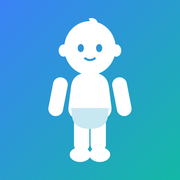
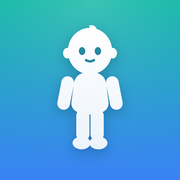
Rifa l icona in stile Apple
Sfumatura verticale col tono chiaro in alto, luce morbida dall alto, ombra
diffusa sotto il soggetto. Il bambino scende al 69% del lato, cosi il taglio
a squircle di iOS non lo sfiora.
Sagoma semplificata: via il bavaglio, braccia accostate al corpo, occhi e
bocca piu grandi. A 60 px la vecchia dava braccia sospese e una macchia
grigia al posto del bavaglio.

diff --git a/v3/strumenti/genera-icona.py b/v3/strumenti/genera-icona.py
@@ -5,7 +5,8 @@ Lancia:  python -I v3/strumenti/genera-icona.py
 Scrive:  v3/icona-512.png, v3/icona-180.png, v3/icona.svg
 
 La sagoma e quella della funzione baby() del mockup .claude/mockup/v3b.html,
-viewBox 0 0 120 240. Qui le stesse forme si ridisegnano con Pillow.
+viewBox 0 0 120 240, con le braccia accostate al corpo e senza bavaglio:
+a 60 px il bavaglio spariva e le braccia staccate spezzavano la sagoma.
 I PNG non hanno canale alfa: iOS mette il nero dove c'e trasparenza.
 La sagoma sta dentro un quadrato piu piccolo dell'icona, cosi resta un
 margine su tutti i lati: iOS taglia gli angoli.
@@ -13,7 +14,7 @@ margine su tutti i lati: iOS taglia gli angoli.
 
 from pathlib import Path
 
-from PIL import Image, ImageChops, ImageDraw
+from PIL import Image, ImageChops, ImageDraw, ImageFilter
 
 V3 = Path(__file__).resolve().parent.parent
 
@@ -21,24 +22,31 @@ BLU = (0x3B, 0x82, 0xF6)    # #3B82F6, il colore di Gabriel
 VERDE = (0x14, 0xB8, 0xA6)  # #14B8A6, il colore di Vittorio
 
 LATO = 2048    # si disegna grande, poi si riduce con LANCZOS
-QUOTA = 0.80   # quota del lato occupata dalla sagoma; il resto e margine
+QUOTA = 0.69   # quota del lato occupata dalla sagoma; il resto e aria
+SU = 0.015     # la sagoma sale di poco: l'ombra sta sotto e pesa
 U = 14         # pixel per unita del viewBox, con supercampionamento
 BORDO = 24     # unita di margine nella tela di lavoro: le braccia ruotate escono dal viewBox
-BAVAGLIO = 190  # il bavaglio e bianco meno coperto, cosi si distingue dal corpo
+
+LUCE = 0.16                  # quanto schiarisce la luce dall'alto, al massimo
+FINE_SOGGETTO = (236, 243, 250)  # il bianco del soggetto in fondo: volume appena accennato
+OMBRA = (8, 44, 78)          # blu scurissimo: un'ombra nera sarebbe dura
+OMBRA_GIU = 0.022            # di quanto scende l'ombra, in quote del lato
+OMBRA_SFOCO = 0.034          # raggio della sfocatura, in quote del lato
+OMBRA_FORZA = 0.30           # opacita dell'ombra
 
 # ── le forme, nelle unita del viewBox 120x240 ──────────────────────────────
 # ellissi: (cx, cy, rx, ry)
 TESTA = (60, 52, 42, 44)
 ORECCHIE = [(17, 56, 8, 10), (103, 56, 8, 10)]
 PIEDI = [(44, 226, 17, 12), (76, 226, 17, 12)]
-OCCHI = [(45, 52, 5, 6.5), (75, 52, 5, 6.5)]
+OCCHI = [(45, 52, 6, 7.5), (75, 52, 6, 7.5)]
 
 # rettangoli arrotondati: (x, y, larghezza, altezza, raggio)
 GAMBE = [(34, 162, 25, 60, 12.5), (61, 162, 25, 60, 12.5)]
 # braccia: come sopra, piu l'angolo in senso orario e il centro di rotazione
 BRACCIA = [
-    (2, 100, 24, 64, 12, 11, (14, 100)),
-    (94, 100, 24, 64, 12, -11, (106, 100)),
+    (8, 100, 24, 64, 12, 11, (20, 100)),
+    (88, 100, 24, 64, 12, -11, (100, 100)),
 ]
 
 # tracciati: punto di partenza, poi i segmenti.
@@ -56,14 +64,8 @@ CORPO = ((60, 92), [
     ('l', (91, 116)),
     ('c', (89, 101), (81, 92), (60, 92)),
 ])
-BAVA = ((29, 150), [
-    ('l', (91, 150)),
-    ('l', (89, 164)),
-    ('c', (88, 176), (78, 184), (60, 184)),
-    ('c', (42, 184), (32, 176), (31, 164)),
-])
 BOCCA = ((51, 68), (60, 75), (69, 68))  # quadratica
-BOCCA_SPESSORE = 3.4
+BOCCA_SPESSORE = 4.6
 
 # Le stesse forme in SVG, per il favicon. Vengono dal mockup senza cambiamenti:
 # se cambi i numeri qui sopra, cambiali anche qui.
@@ -72,15 +74,14 @@ SAGOMA_SVG = """\
 <ellipse cx="17" cy="56" rx="8" ry="10"/><ellipse cx="103" cy="56" rx="8" ry="10"/>
 <ellipse cx="60" cy="52" rx="42" ry="44"/>
 <path d="M60 92c-21 0-29 9-31 24l-4 32c-2 15 11 24 35 24s37-9 35-24l-4-32c-2-15-10-24-31-24z"/>
-<rect x="2" y="100" width="24" height="64" rx="12" transform="rotate(11 14 100)"/>
-<rect x="94" y="100" width="24" height="64" rx="12" transform="rotate(-11 106 100)"/>
+<rect x="8" y="100" width="24" height="64" rx="12" transform="rotate(11 20 100)"/>
+<rect x="88" y="100" width="24" height="64" rx="12" transform="rotate(-11 100 100)"/>
 <rect x="34" y="162" width="25" height="60" rx="12.5"/>
 <rect x="61" y="162" width="25" height="60" rx="12.5"/>
 <ellipse cx="44" cy="226" rx="17" ry="12"/><ellipse cx="76" cy="226" rx="17" ry="12"/>
-<path d="M29 150h62l-2 14c-1 12-11 20-29 20s-28-8-29-20z" fill="#BEBEBE"/>
-<ellipse cx="45" cy="52" rx="5" ry="6.5" fill="#000"/>
-<ellipse cx="75" cy="52" rx="5" ry="6.5" fill="#000"/>
-<path d="M51 68q9 7 18 0" fill="none" stroke="#000" stroke-width="3.4" stroke-linecap="round"/>\
+<ellipse cx="45" cy="52" rx="6" ry="7.5" fill="#000"/>
+<ellipse cx="75" cy="52" rx="6" ry="7.5" fill="#000"/>
+<path d="M51 68q9 7 18 0" fill="none" stroke="#000" stroke-width="4.6" stroke-linecap="round"/>\
 """
 
 
@@ -144,7 +145,8 @@ def braccio(misura, b):
     return strato.rotate(-angolo, resample=Image.Resampling.BICUBIC, center=px(*centro))
 
 
-def maschera():
+def maschera(piena=False):
+    """La sagoma. Con piena=True senza occhi e bocca: serve per l'ombra."""
     misura = ((120 + 2 * BORDO) * U, (240 + 2 * BORDO) * U)
     m = Image.new('L', misura, 0)
     d = ImageDraw.Draw(m)
@@ -159,8 +161,9 @@ def maschera():
         ellisse(d, p, 255)
     for b in BRACCIA:
         m = ImageChops.lighter(m, braccio(misura, b))
+    if piena:
+        return m
     d = ImageDraw.Draw(m)
-    d.polygon(tracciato(BAVA), fill=BAVAGLIO)
     for o in OCCHI:
         ellisse(d, o, 0)
     d.line(
@@ -173,39 +176,64 @@ def maschera():
 # ── fondo sfumato ─────────────────────────────────────────────────────────
 
 def sfondo(lato):
-    """Sfumatura in diagonale dal blu al verde acqua.
+    """Sfumatura verticale: verde acqua in alto, blu in basso, piu una
+    luce morbida dall'alto.
 
-    Si calcola piccola e si ingrandisce: una sfumatura lineare si interpola
-    senza scalini, e il ciclo su 2048x2048 pixel sarebbe lento.
+    Si calcola piccola e si ingrandisce: una sfumatura si interpola senza
+    scalini, e il ciclo su 2048x2048 pixel sarebbe lento.
     """
-    n = 64
+    n = 128
     g = Image.new('RGB', (n, n))
     p = g.load()
     for y in range(n):
         for x in range(n):
-            t = (x + y) / (2 * (n - 1))
-            p[x, y] = tuple(round(a + (b - a) * t) for a, b in zip(BLU, VERDE))
+            t = y / (n - 1)
+            c = [a + (b - a) * t for a, b in zip(VERDE, BLU)]
+            dx, dy = (x / (n - 1)) - 0.5, y / (n - 1)
+            quanta = LUCE * max(0.0, 1 - (dx * dx + dy * dy) ** 0.5 / 1.05) ** 2
+            p[x, y] = tuple(round(v + (255 - v) * quanta) for v in c)
     return g.resize((lato, lato), Image.Resampling.BICUBIC)
+
+
+def soggetto(misura):
+    """Il bianco del bambino: appena piu spento in basso, come se la luce
+    venisse dall'alto."""
+    h = misura[1]
+    g = Image.new('RGB', (1, h))
+    p = g.load()
+    for y in range(h):
+        t = y / (h - 1)
+        p[0, y] = tuple(round(255 + (b - 255) * t) for b in FINE_SOGGETTO)
+    return g.resize(misura, Image.Resampling.BICUBIC)
 
 
 # ── scrittura dei file ────────────────────────────────────────────────────
 
 def main():
     m = maschera()
-    scatola = m.getbbox()
+    piena = maschera(piena=True)
+    scatola = piena.getbbox()
     if scatola is None:
         raise SystemExit('la maschera e vuota: nessuna forma disegnata')
-    m = m.crop(scatola)
+    m, piena = m.crop(scatola), piena.crop(scatola)
     lu, au = m.size
 
     dentro = LATO * QUOTA
     k = dentro / max(lu, au)
     nuova = (max(1, round(lu * k)), max(1, round(au * k)))
     m = m.resize(nuova, Image.Resampling.LANCZOS)
+    piena = piena.resize(nuova, Image.Resampling.LANCZOS)
+
+    x0 = (LATO - nuova[0]) // 2
+    y0 = (LATO - nuova[1]) // 2 - round(SU * LATO)
 
     icona = sfondo(LATO)
-    bianco = Image.new('RGB', nuova, (255, 255, 255))
-    icona.paste(bianco, ((LATO - nuova[0]) // 2, (LATO - nuova[1]) // 2), m)
+    sotto = Image.new('L', (LATO, LATO), 0)
+    sotto.paste(piena, (x0, y0 + round(OMBRA_GIU * LATO)))
+    sotto = sotto.filter(ImageFilter.GaussianBlur(OMBRA_SFOCO * LATO))
+    sotto = sotto.point(lambda v: round(v * OMBRA_FORZA))
+    icona.paste(Image.new('RGB', (LATO, LATO), OMBRA), (0, 0), sotto)
+    icona.paste(soggetto(nuova), (x0, y0), m)
     icona = icona.convert('RGB')
 
     for lato in (512, 180):
@@ -220,11 +248,20 @@ def main():
     ba = (scatola[3] - scatola[1]) / U
     ks = 512 * QUOTA / max(bl, ba)
     tx = 256 - ks * (bx + bl / 2)
-    ty = 256 - ks * (by + ba / 2)
+    ty = 256 - ks * (by + ba / 2) - SU * 512
+    bianco_fine = '#%02X%02X%02X' % FINE_SOGGETTO
     svg = f'''<svg xmlns="http://www.w3.org/2000/svg" viewBox="0 0 512 512" width="512" height="512">
 <defs>
-<linearGradient id="f" x1="0" y1="0" x2="1" y2="1">
-<stop offset="0" stop-color="#3B82F6"/><stop offset="1" stop-color="#14B8A6"/>
+<linearGradient id="f" x1="0" y1="0" x2="0" y2="1">
+<stop offset="0" stop-color="#14B8A6"/><stop offset="1" stop-color="#3B82F6"/>
+</linearGradient>
+<radialGradient id="l" cx="0.5" cy="0" r="1.05">
+<stop offset="0" stop-color="#fff" stop-opacity="{LUCE:.2f}"/>
+<stop offset="0.5" stop-color="#fff" stop-opacity="{LUCE / 4:.2f}"/>
+<stop offset="1" stop-color="#fff" stop-opacity="0"/>
+</radialGradient>
+<linearGradient id="b" x1="0" y1="0" x2="0" y2="1">
+<stop offset="0" stop-color="#fff"/><stop offset="1" stop-color="{bianco_fine}"/>
 </linearGradient>
 <mask id="m" maskUnits="userSpaceOnUse" x="0" y="0" width="512" height="512">
 <g transform="translate({tx:.2f} {ty:.2f}) scale({ks:.4f})" fill="#fff">
@@ -233,7 +270,8 @@ def main():
 </mask>
 </defs>
 <rect width="512" height="512" fill="url(#f)"/>
-<rect width="512" height="512" fill="#fff" mask="url(#m)"/>
+<rect width="512" height="512" fill="url(#l)"/>
+<rect width="512" height="512" fill="url(#b)" mask="url(#m)"/>
 </svg>
 '''
     f = V3 / 'icona.svg'
